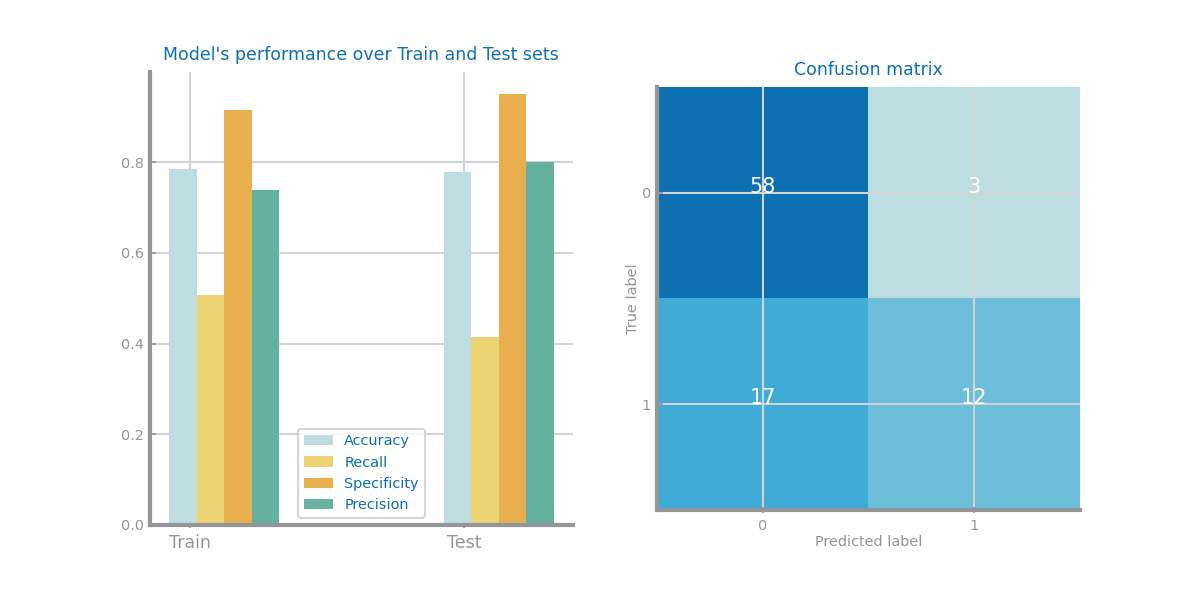
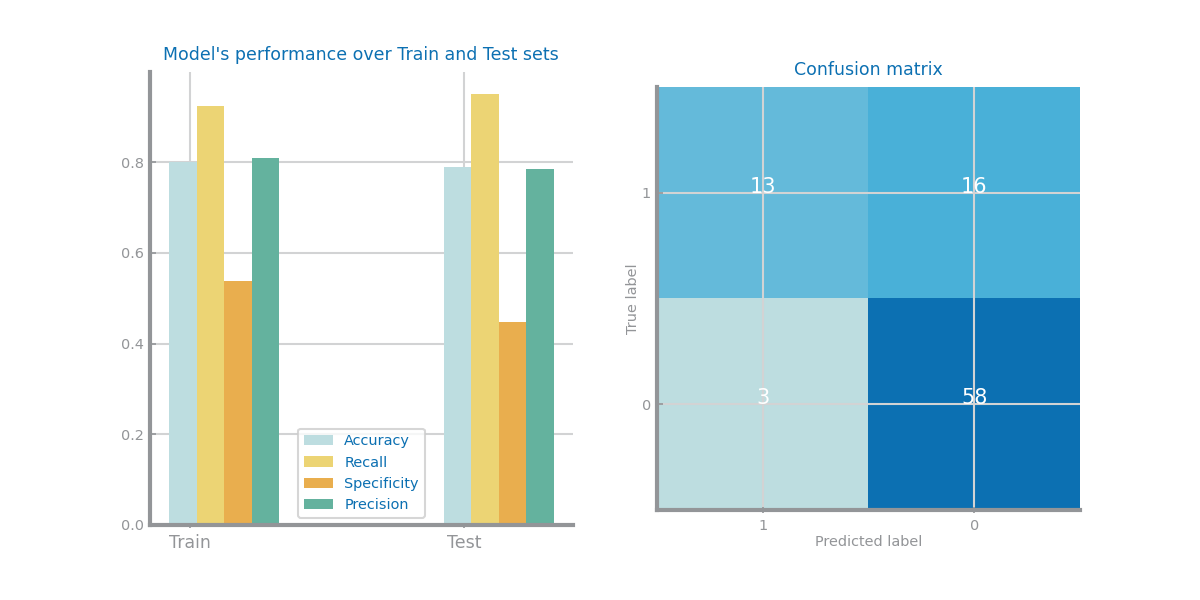
heart NB test for feature selection

Changed region(s): [[0.5242, 0.12, 0.925, 0.87], [0.37, 0.15, 0.4625, 0.57], [0.1233, 0.18, 0.2467, 0.51]]

diff --git a/Heart_FeatureSelection.py b/Heart_FeatureSelection.py
@@ -14,18 +14,18 @@ from Heart_NaiveBayes import NaiveBayesModel, NaiveBayesEstimation
 
 
 def NaiveBayesTest(X, y, savename=None):
-    trnX, tstX, trnY, tstY = train_test_split(X, y, train_size=0.7, stratify=y)
+    trnX, tstX, trnY, tstY = train_test_split(X, y, train_size=0.7, stratify=y, random_state=None)
 
     _ = NaiveBayesModel(trnX, tstX, trnY, tstY)
     if savename is not None:
         plt.savefig('plots/Heart_FeatureSelection_'+savename+'_NB.png')
     
-    _, score_holdout = NaiveBayesEstimation(trnX, tstX, trnY, tstY)
+    _, score = NaiveBayesEstimation(trnX, tstX, trnY, tstY)
     if savename is not None:
         plt.savefig('plots/Heart_FetureSelection_'+savename+'_NBestimators.png')
     
-    print('NB holdout score:', score_holdout)
-    return
+    print('NB holdout score:', score)
+    return score
 
 
 np.set_printoptions(precision=4)
